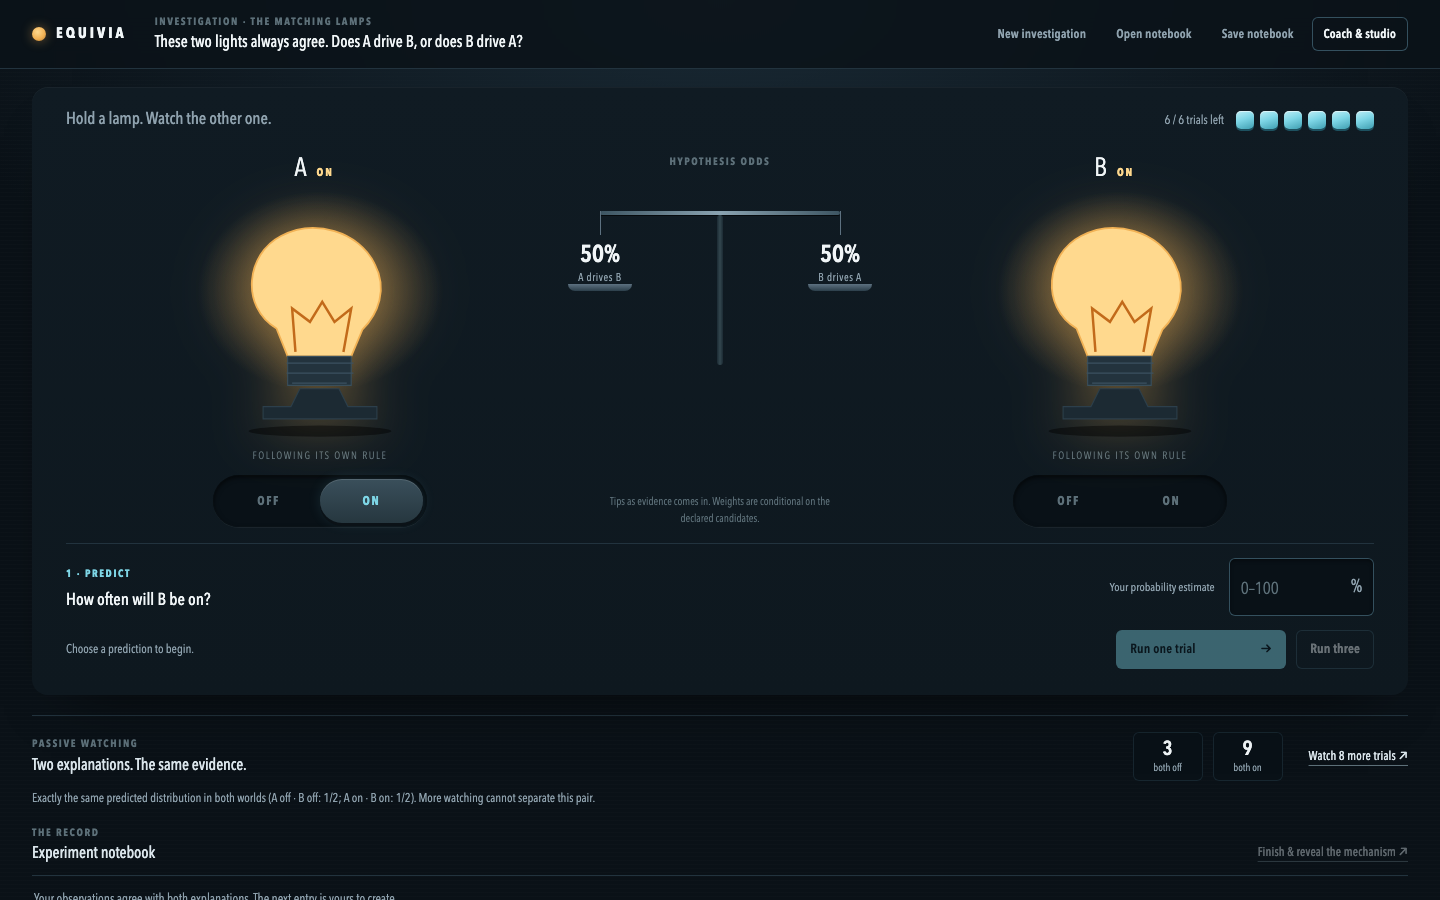
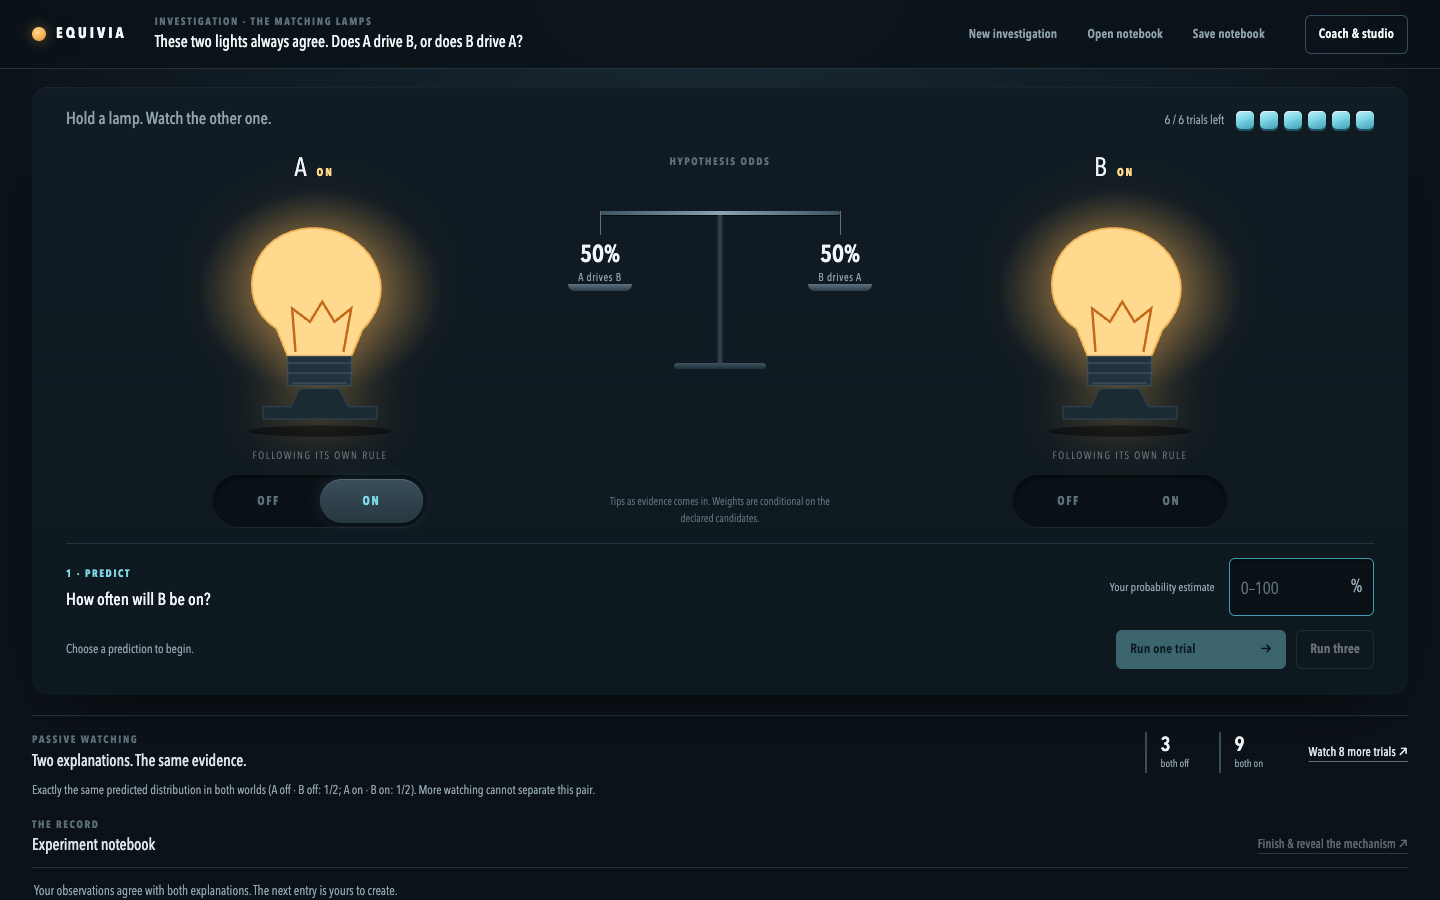
Prepare Nemotron workflow and submission materials

diff --git a/public/styles.css b/public/styles.css
@@ -70,8 +70,9 @@ p { margin:0; }
 .introduction { min-width:0; flex:1; }
 .introduction .eyebrow { margin:0 0 2px; }
 .brief p { font-size:16px; font-weight:500; color:var(--ink-strong); overflow-wrap:anywhere; }
-.topbar-actions { display:flex; gap:6px; align-items:center; flex-wrap:wrap; justify-content:flex-end; }
+.topbar-actions { display:flex; gap:6px; align-items:center; flex-wrap:wrap; justify-content:flex-end; order:1; }
 .topbar-actions button { padding:8px 12px; font-size:12.5px; }
+.drawer-toggle { order:2; white-space:nowrap; }
 .skip-link { font-size:13px; }
 
 main { max-width:1440px; margin:0 auto; padding:18px 32px 0; }
@@ -155,6 +156,8 @@ main { max-width:1440px; margin:0 auto; padding:18px 32px 0; }
 }
 .beam::before { content:""; position:absolute; left:0; right:0; top:-2px; height:4px; border-radius:2px; background:linear-gradient(90deg, #3d5562, #8aa3b1 50%, #3d5562); box-shadow:0 1px 0 rgba(0,0,0,.6); }
 .post { position:absolute; left:50%; top:2px; width:6px; height:150px; margin-left:-3px; border-radius:3px; background:linear-gradient(90deg,#1b2a33,#33474f,#1b2a33); }
+.post { transform:rotate(calc(var(--tilt, 0deg) * -1)); transform-origin:50% 0; transition:transform .9s cubic-bezier(.28,.72,.2,1); }
+.post::after { content:""; position:absolute; left:50%; bottom:-4px; width:92px; height:6px; margin-left:-46px; border-radius:3px; background:linear-gradient(#3d5562,#1f3039); }
 .balance::after { content:""; display:block; position:absolute; }
 .pan {
   position:absolute; top:-2px; width:116px; text-align:center; display:flex; flex-direction:column; align-items:center;
@@ -182,6 +185,10 @@ main { max-width:1440px; margin:0 auto; padding:18px 32px 0; }
 .prediction-value input::placeholder { color:var(--faint); font-size:17px; font-weight:400; }
 .prediction-value input:focus { outline:none; }
 .prediction-value:focus-within { box-shadow:inset 0 0 0 1px var(--accent), inset 0 2px 4px rgba(0,0,0,.5), 0 0 0 3px rgba(126,214,230,.18); }
+/* The first move: until a prediction is typed, the empty field carries the accent edge. */
+.prediction-value:has(input:placeholder-shown):not(:focus-within) { box-shadow:inset 0 0 0 1px var(--accent-deep), inset 0 2px 4px rgba(0,0,0,.5); }
+.primary:not(:disabled):active { background:#5fbfd2; }
+.outline:not(:disabled):active { background:rgba(126,214,230,.14); }
 #predictions .prediction-value>span { font-size:18px; color:var(--muted); }
 .run-row { display:flex; gap:10px; align-items:center; flex-wrap:wrap; margin-top:14px; }
 .run-row p { margin:0 auto 0 0; font-size:12.5px; color:var(--muted); max-width:300px; line-height:1.5; }
@@ -200,7 +207,7 @@ main { max-width:1440px; margin:0 auto; padding:18px 32px 0; }
 .observation-band h2 { font-size:16px; font-weight:500; color:var(--ink); }
 .observation-band .eyebrow { margin-bottom:2px; }
 .observed-counts { display:flex; gap:10px; align-items:center; flex-wrap:wrap; }
-.count-pair { display:grid; gap:0; text-align:center; min-width:70px; padding:6px 10px; border-radius:6px; background:var(--recess); box-shadow:inset 0 0 0 1px #17262f; }
+.count-pair { display:grid; gap:0; text-align:left; min-width:64px; padding:2px 0 2px 14px; border-left:2px solid var(--line-strong); }
 .count-pair strong { font-size:20px; font-weight:600; color:var(--ink-strong); line-height:1.1; }
 .count-pair span { font-size:10.5px; color:var(--muted); }
 .observation-note { font-size:12.5px; line-height:1.55; color:var(--muted); max-width:820px; margin-top:8px; }
@@ -235,7 +242,7 @@ main { max-width:1440px; margin:0 auto; padding:18px 32px 0; }
 .candidates .hypotheses { padding-top:14px; }
 .hypotheses { margin-top:0; }
 .hypothesis-list { display:grid; grid-template-columns:repeat(2,minmax(0,1fr)); gap:12px; }
-.hypothesis { min-width:0; padding:14px 16px; border-radius:10px; background:var(--panel); box-shadow:inset 0 0 0 1px var(--line); }
+.hypothesis { min-width:0; padding:14px 0 6px; border-top:1px solid var(--line); }
 .hypothesis.excluded { opacity:.55; }
 .hypothesis-heading { display:flex; align-items:baseline; justify-content:space-between; gap:12px; }
 .hypothesis h3 { font-size:16px; overflow-wrap:anywhere; }
@@ -323,8 +330,10 @@ pre { font-size:11px; line-height:1.5; white-space:pre-wrap; word-break:break-wo
 .forecast-reflection h3 { font-size:19px; font-weight:600; }
 .forecast-context { margin:6px 0 10px; color:var(--muted); }
 .forecast-question { margin:0 0 10px; }
-.forecast-comparison { display:grid; grid-template-columns:repeat(3,minmax(0,1fr)); gap:10px; margin:0; }
-.forecast-metric { min-width:0; padding:12px 12px; border-radius:8px; background:var(--recess); box-shadow:inset 0 0 0 1px var(--line); }
+.forecast-comparison { display:grid; grid-template-columns:repeat(3,minmax(0,1fr)); gap:28px; margin:0; }
+.forecast-metric { min-width:0; padding:12px 0 0; border-top:2px solid var(--line-strong); }
+.forecast-metric:first-child { border-top-color:var(--line); }
+.forecast-metric:nth-child(2) { border-top-color:var(--accent-deep); }
 .forecast-metric dt { font-size:12px; line-height:1.4; min-height:32px; color:var(--muted); }
 .forecast-metric dd { margin:6px 0 0; overflow-wrap:anywhere; }
 .forecast-metric dd strong { display:block; font-size:26px; font-weight:600; color:var(--ink-strong); line-height:1.2; }
@@ -332,21 +341,22 @@ pre { font-size:11px; line-height:1.5; white-space:pre-wrap; word-break:break-wo
 .forecast-note { font-size:12.5px; line-height:1.6; color:var(--muted); margin:10px 0; }
 .forecast-counts h4 { font-size:12.5px; font-weight:600; margin:16px 0 10px; color:var(--ink); }
 .forecast-count-list { display:grid; grid-template-columns:repeat(4,minmax(0,1fr)); list-style:none; padding:0; margin:0; gap:8px; }
-.forecast-count { min-width:0; padding:10px 7px; border-radius:8px; text-align:center; overflow-wrap:anywhere; background:var(--recess); box-shadow:inset 0 0 0 1px var(--line); }
+.forecast-count { min-width:0; padding:10px 0 0 10px; border-left:2px solid var(--line); text-align:left; overflow-wrap:anywhere; }
+.forecast-count:first-child { border-left-color:transparent; padding-left:0; }
 .forecast-count-label { display:block; font-size:11.5px; color:var(--muted); }
 .forecast-count strong { display:block; font-size:17px; color:var(--ink-strong); }
-.forecast-count.observed-count { box-shadow:inset 0 0 0 1px var(--accent); }
+.forecast-count.observed-count { border-left-color:var(--accent); }
 .forecast-observed { display:block; margin-top:4px; font-size:11px; font-weight:700; color:var(--accent); letter-spacing:.4px; }
 
 /* Optional explanation of an original journal trial. */
-.trial-evidence { min-width:0; margin-top:10px; border-radius:8px; background:var(--recess); box-shadow:inset 0 0 0 1px var(--line); }
-.trial-evidence summary { padding:9px 11px; cursor:pointer; color:var(--accent); font-size:12px; font-weight:600; line-height:1.4; }
+.trial-evidence { min-width:0; margin-top:12px; border-top:1px solid var(--line); }
+.trial-evidence summary { padding:9px 0 0; cursor:pointer; color:var(--accent); font-size:12px; font-weight:600; line-height:1.4; }
 .trial-evidence summary:focus-visible { outline:2px solid var(--focus); outline-offset:2px; border-radius:6px; }
-.trial-evidence-body { padding:0 11px 12px; min-width:0; font-size:12px; color:var(--muted); }
+.trial-evidence-body { padding:0 0 4px; min-width:0; font-size:12px; color:var(--muted); }
 .trial-evidence-body p { font-size:12px; line-height:1.6; margin-top:8px; }
 .trial-evidence-models { display:grid; grid-template-columns:repeat(2,minmax(0,1fr)); gap:8px; margin:10px 0; }
 .journal-entry .trial-evidence-models { grid-template-columns:1fr; }
-.trial-evidence-model { min-width:0; padding:10px; border-radius:6px; background:var(--panel); box-shadow:inset 0 0 0 1px var(--line); }
+.trial-evidence-model { min-width:0; padding:10px 0 2px; border-top:1px solid var(--line); }
 .trial-evidence-model h4 { margin:0 0 6px; font-size:12.5px; line-height:1.35; color:var(--ink-strong); overflow-wrap:anywhere; }
 .trial-evidence-model dl { margin:0; }
 .trial-evidence-model dl>div { display:flex; justify-content:space-between; gap:10px; margin-top:6px; align-items:baseline; }
@@ -376,9 +386,11 @@ pre { font-size:11px; line-height:1.5; white-space:pre-wrap; word-break:break-wo
   .lamp-letter { font-size:22px; }
 }
 @media (max-width:820px) {
-  .topbar { display:grid; grid-template-columns:1fr auto; }
-  .introduction { grid-column:1 / -1; order:3; }
-  .topbar-actions { grid-column:1 / -1; justify-content:flex-start; }
+  .topbar { display:grid; grid-template-columns:1fr auto; row-gap:10px; }
+  .brand { grid-column:1; grid-row:1; }
+  .drawer-toggle { grid-column:2; grid-row:1; }
+  .introduction { grid-column:1 / -1; grid-row:2; }
+  .topbar-actions { grid-column:1 / -1; grid-row:3; justify-content:flex-start; }
   .lamps { grid-template-columns:minmax(0,1fr) minmax(0,1fr); row-gap:14px; }
   #lamp-A { grid-column:1; grid-row:1; }
   #lamp-B { grid-column:2; grid-row:1; }

diff --git a/src/provider.js b/src/provider.js
@@ -1,9 +1,9 @@
 /** Server-only, bounded Nebius transport. No credential discovery or offline reply. */
-const BASE_URL = 'https://api.tokenfactory.us-central1.nebius.com/v1/';
+const BASE_URL = 'https://api.tokenfactory.nebius.com/v1/';
 const HOSTS = new Set(['api.tokenfactory.us-central1.nebius.com', 'api.tokenfactory.nebius.com']);
 const MODEL_ID = /^[A-Za-z0-9][A-Za-z0-9._:/-]{0,199}$/;
 const LIMIT = 65536;
-const TOKEN_LIMITS = Object.freeze({ coach: 1200, author: 4096 });
+const TOKEN_LIMITS = Object.freeze({ coach: 2048, author: 8192 });
 class ProviderFailure extends Error {
   constructor(code, message) { super(message); this.code = code; }
 }
@@ -81,8 +81,8 @@ function contentFrom(body) {
   if (message?.refusal !== undefined && message.refusal !== null && message.refusal !== '') fail('PROVIDER_REFUSED', 'The model did not provide a proposal. No state was changed.');
   if (choice?.finish_reason !== 'stop' || message?.role !== 'assistant' || typeof message.content !== 'string'
     || !message.content.trim() || new TextEncoder().encode(message.content).length > LIMIT
-    || (message.tool_calls !== undefined && (!Array.isArray(message.tool_calls) || message.tool_calls.length))
-    || message.function_call !== undefined) fail('INVALID_PROVIDER_RESPONSE', 'The model returned an incomplete or unsupported message. No state was changed.');
+    || (message.tool_calls !== undefined && message.tool_calls !== null && (!Array.isArray(message.tool_calls) || message.tool_calls.length))
+    || (message.function_call !== undefined && message.function_call !== null)) fail('INVALID_PROVIDER_RESPONSE', 'The model returned an incomplete or unsupported message. No state was changed.');
   return message.content;
 }
 function usageFrom(body) {

diff --git a/public/index.html b/public/index.html
@@ -21,8 +21,8 @@
       <button id="new-investigation" class="quiet">New investigation</button>
       <button id="open-notebook" class="quiet">Open notebook</button>
       <button id="save-notebook" class="quiet">Save notebook</button>
-      <button id="open-drawer" class="outline" aria-expanded="false" aria-controls="drawer">Coach &amp; studio</button>
     </nav>
+    <button id="open-drawer" class="outline drawer-toggle" aria-expanded="false" aria-controls="drawer">Coach &amp; studio</button>
   </header>
 
   <main>

diff --git a/demo/SUBMISSION.md b/demo/SUBMISSION.md
@@ -1,0 +1,63 @@
+# EQUIVIA Submission
+
+## Track
+Coding and agentic engineering. EQUIVIA is a deterministic causal-inference engine paired with an interactive UI for learning how observations and interventions establish causality. The Nemotron integration adds two model-powered roles: a coach that interprets learner reasoning against recorded evidence, and a creator that generates executable causal structures for exploration.
+
+## New or existing
+Existing project with significant updates since Aug 26, 2026. The core engine, UI, and test suite were established before the submission window. The Nemotron integration (coach role and creator role using Token Factory API) was added to this branch specifically for this hackathon.
+
+## Models used and why that size
+**Model:** `nvidia/nemotron-3-super-120b-a12b` on Nebius Token Factory.
+
+**Why that size:** EQUIVIA's use cases require reasoning about formal causal structures and the exact numerical bounds of evidence. The Super-120B variant provides strong reasoning capability over structured domains. The coach role quotes the learner's actual explanation and must cite exact calculations from the deterministic engine; this demands careful, aligned output. The creator role generates truth tables that must satisfy exact mathematical constraints (observational equivalence and intervention separation); again, larger models are more reliable for structured, constrained generation.
+
+## Nemotron output quality
+**8/10.** Live testing confirms the model produces correct, useful responses: the coach accurately interprets learner reasoning and proposes valid interventions; the creator generates world pairs that pass the deterministic equivalence and separation checks without excessive refusals. The main limitation is that very long explanations sometimes receive brief responses, and the creator occasionally proposes pairs that fail the deterministic checks (gracefully handled by the app). No showstoppers, and both roles remain usable for real learners.
+
+## Approach
+**Out of the box.** Standard OpenAI-compatible /chat/completions interface. No fine-tuning, prompt engineering beyond role-specific system messages, or structured outputs. The adapter uses fixed `max_tokens` per purpose (coach: 2048, creator: 8192) and `temperature: 0.2` for focused responses. The deterministic engine, not the model, enforces correctness: the coach's quotations and calculations are verified; the creator's output is checked against exact mathematical criteria before acceptance.
+
+## Comparison to other models
+EQUIVIA's coach and creator roles need multi-step reasoning and structured, bounded output. Small models (GPT-3.5, Nemotron-Nano) tend to produce unreliable or off-topic responses. Larger open models like Nemotron-3.5-Super and Ultra are comparable; the Super variant was chosen for balance between capability and latency. Closed commercial models (GPT-4, Claude-3) would be stronger but require different API integration and have higher cost per token.
+
+## Most valuable Nebius capability
+**Token Factory API access.** EQUIVIA is built on a deterministic, verifiable causal core; the model is a helpful assistant, not the source of truth. Token Factory's straightforward OpenAI-compatible endpoint makes it simple to route the model calls through the same interface as any other LLM, so the app can slot in better models later without architecture changes. The fixed-endpoint model ID and the API key isolation (server-side only) are exactly what a production app needs.
+
+## Recommend score
+**8/10.** EQUIVIA is a complete, well-tested product with a clear use case (teaching causal reasoning) and a real audience (students, educators, researchers). The Nemotron integration is authentic and meaningful: the model powers two substantive roles that learners actually engage with. The app is fully responsive, includes proper documentation and error handling, and keeps deterministic correctness as the foundation. The main gaps are: the model assistance is optional (so the core product works without Nebius), and the narrated demo under the time limit does not show the Nemotron coach/creator roles in action (they require configuration and interaction beyond the core lab loop).
+
+## Experience score
+**9/10.** Building against Token Factory was straightforward. The documentation and model selection are clear. The only friction: reading the API key from a file rather than an env var directly, but that's a reasonable security requirement. Live testing of the coach and creator roles works smoothly and returns in under 2 seconds each. No rate limits hit, no malformed responses. The adapter handles network errors, oversized responses, and missing configuration with clear, safe error messages shown to the learner.
+
+## Improvements wanted
+- **Streaming responses** for longer coach explanations (currently the learner waits a few seconds for the full response).
+- **Structured output mode** for creator to guarantee valid JSON; currently we fall back gracefully if the JSON is malformed, but a formal mode would be safer.
+- **Multi-variable creator** support; EQUIVIA's engine can represent hidden variables, but the current creator interface only generates two-variable pairs. Nemotron could generate larger causal structures with hidden confounders and mediators.
+
+## What you hope to see next from Nemotron
+Consistent, low-latency responses for deterministic, constrained domains. EQUIVIA's use cases don't need the latest large model; they need reliable reasoning at smaller scale. If Nebius can offer fast, cheap, smaller reasoning models (in the 10B–30B range) with strong structured-output support, that would open more real-time educational use cases.
+
+## AI tools used while building
+**Claude Code** — entire app, from architecture through UI, testing, and Nemotron integration. The deterministic engine, test suite, server, and browser UI are all Claude-assisted. No other AI tools were used during development.
+
+## About the project
+
+**EQUIVIA** is an experiment-design game for learning causality from evidence. 
+
+Two lamps always match. One explanation says A drives B; another says B drives A. They produce identical distributions in ordinary observation. You predict what an intervention (clamping one lamp) will do, run trials with a limited budget, and update your beliefs as results come in.
+
+The engine is deterministic and fully testable: it tracks exact posterior weights, computes exact likelihood under each hypothesis, and samples pseudorandomly from a stored seed. Every claim in the learner's report is grounded in calculations that can be independently verified.
+
+When an authorized Nebius Token Factory key is available, EQUIVIA unlocks two model-powered roles. The **coach** reads your explanation of what the evidence shows, quotes you accurately, and proposes a useful next experiment backed by exact engine calculations. The **creator** generates new pairs of causal structures and verifies they produce equal observations but separate under your chosen intervention — no more "pick a premise, guess the answer" tricks.
+
+The app is built in Node.js with no runtime dependencies. The UI is responsive HTML, CSS, and vanilla JavaScript. The test suite (101 tests) covers the entire engine, the server contract, the model adapter, and the browser interface. All tests pass.
+
+**Challenges:** maintaining exact numerical correctness across the engine and browser; designing a UI that makes causal reasoning intuitive without oversimplifying; integrating a language model in a way that enhances, not replaces, the deterministic core.
+
+**What's next:** integrating the hidden-variable creator interface (the engine supports it, the creator UI doesn't yet); adding educator guides and pre-built world galleries; expanding to larger causal structures with mediation and confounding; streaming coach responses for real-time feedback.
+
+## Built with
+- Node.js 22
+- HTML, CSS, Vanilla JavaScript (no frameworks, no external fonts/CDNs)
+- Nebius Token Factory API (NVIDIA Nemotron-3-Super-120B)
+- Claude Code (design, build, test, integration)

diff --git a/demo/SCRIPT.md b/demo/SCRIPT.md
@@ -1,0 +1,19 @@
+# EQUIVIA demo script (draft, not rendered)
+
+Source: `demo/demo.json`. Dry-run verified: every selector existed when its step ran, no console errors, step screenshots in `demo/steps/`. About 79 seconds of narration at 150 words per minute, 11 steps. Lamp outcomes are random, so on-screen numbers differ between runs; the narration only claims what is true in every run.
+
+| Step | Narration | What is on screen |
+|---|---|---|
+| 1 | EQUIVIA is a practice lab for cause and effect. It helps students and curious people learn how to test an idea. | Start page: the two lamps, balance at fifty-fifty, "1 · Predict" panel, notebook empty. |
+| 2 | Two lamps, A and B, always agree. Your job is to find out which lamp drives the other. | Same screen, scrolled to the top. |
+| 3 | Holding a lamp is different from watching it. Here you hold lamp A off, and see what lamp B does. | Lamp A switched to Off under "Held by your clamp". |
+| 4 | Before each run, write down your guess. Type forty percent for how often lamp B will be on. | Probability field shows 40 with the accent edge. Run buttons enabled. |
+| 5 | Now run one trial. The lab records what happened and keeps the record. | Trial count drops to five of six. Notebook shows entry 01. |
+| 6 | The balance on the left shows how well each explanation fits the results so far. It tips as evidence comes in. | Balance tilted toward one explanation, with its weight shown. |
+| 7 | Below the lamps, the lab compares your guess with the models before and after the run. | "Reflect on this run" panel with your estimate, the models before, and the updated value. |
+| 8 | Run three more trials. A short run can look different from a single guess, and that is normal. | Two trials left. Notebook has four entries; count table shows the observed count. |
+| 9 | Open the note for the first trial. It shows how that one result changed the weights. | First entry's "How trial 1 changed the weights" open, showing before, chance and after. |
+| 10 | The lab keeps your notebook on this device. Save it as a file to reopen it later, or share an evidence report. | Page scrolled back to the top, showing Save notebook and the Coach and studio drawer. |
+| 11 | Make a guess, test it, and let the evidence decide how far it goes. | Top of the page; closing frame. |
+
+Not in the demo: the coach and world-authoring features (they need a model key), and the reveal, since finishing the investigation ends it.
